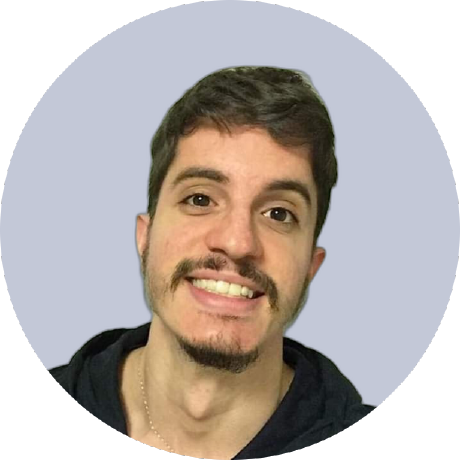
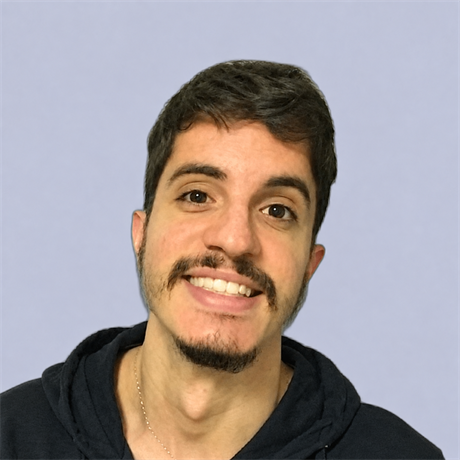
fix(profile): update image and Open Graph dimensions

diff --git a/app/layout.tsx b/app/layout.tsx
@@ -23,8 +23,8 @@ export const metadata: Metadata = {
     images: [
       {
         url: '/images/profile.png',
-        width: 800,
-        height: 418,
+        width: 460,
+        height: 460,
         alt: `${PERSONAL_INFO.name} - ${PERSONAL_INFO.role}`,
       },
     ],
